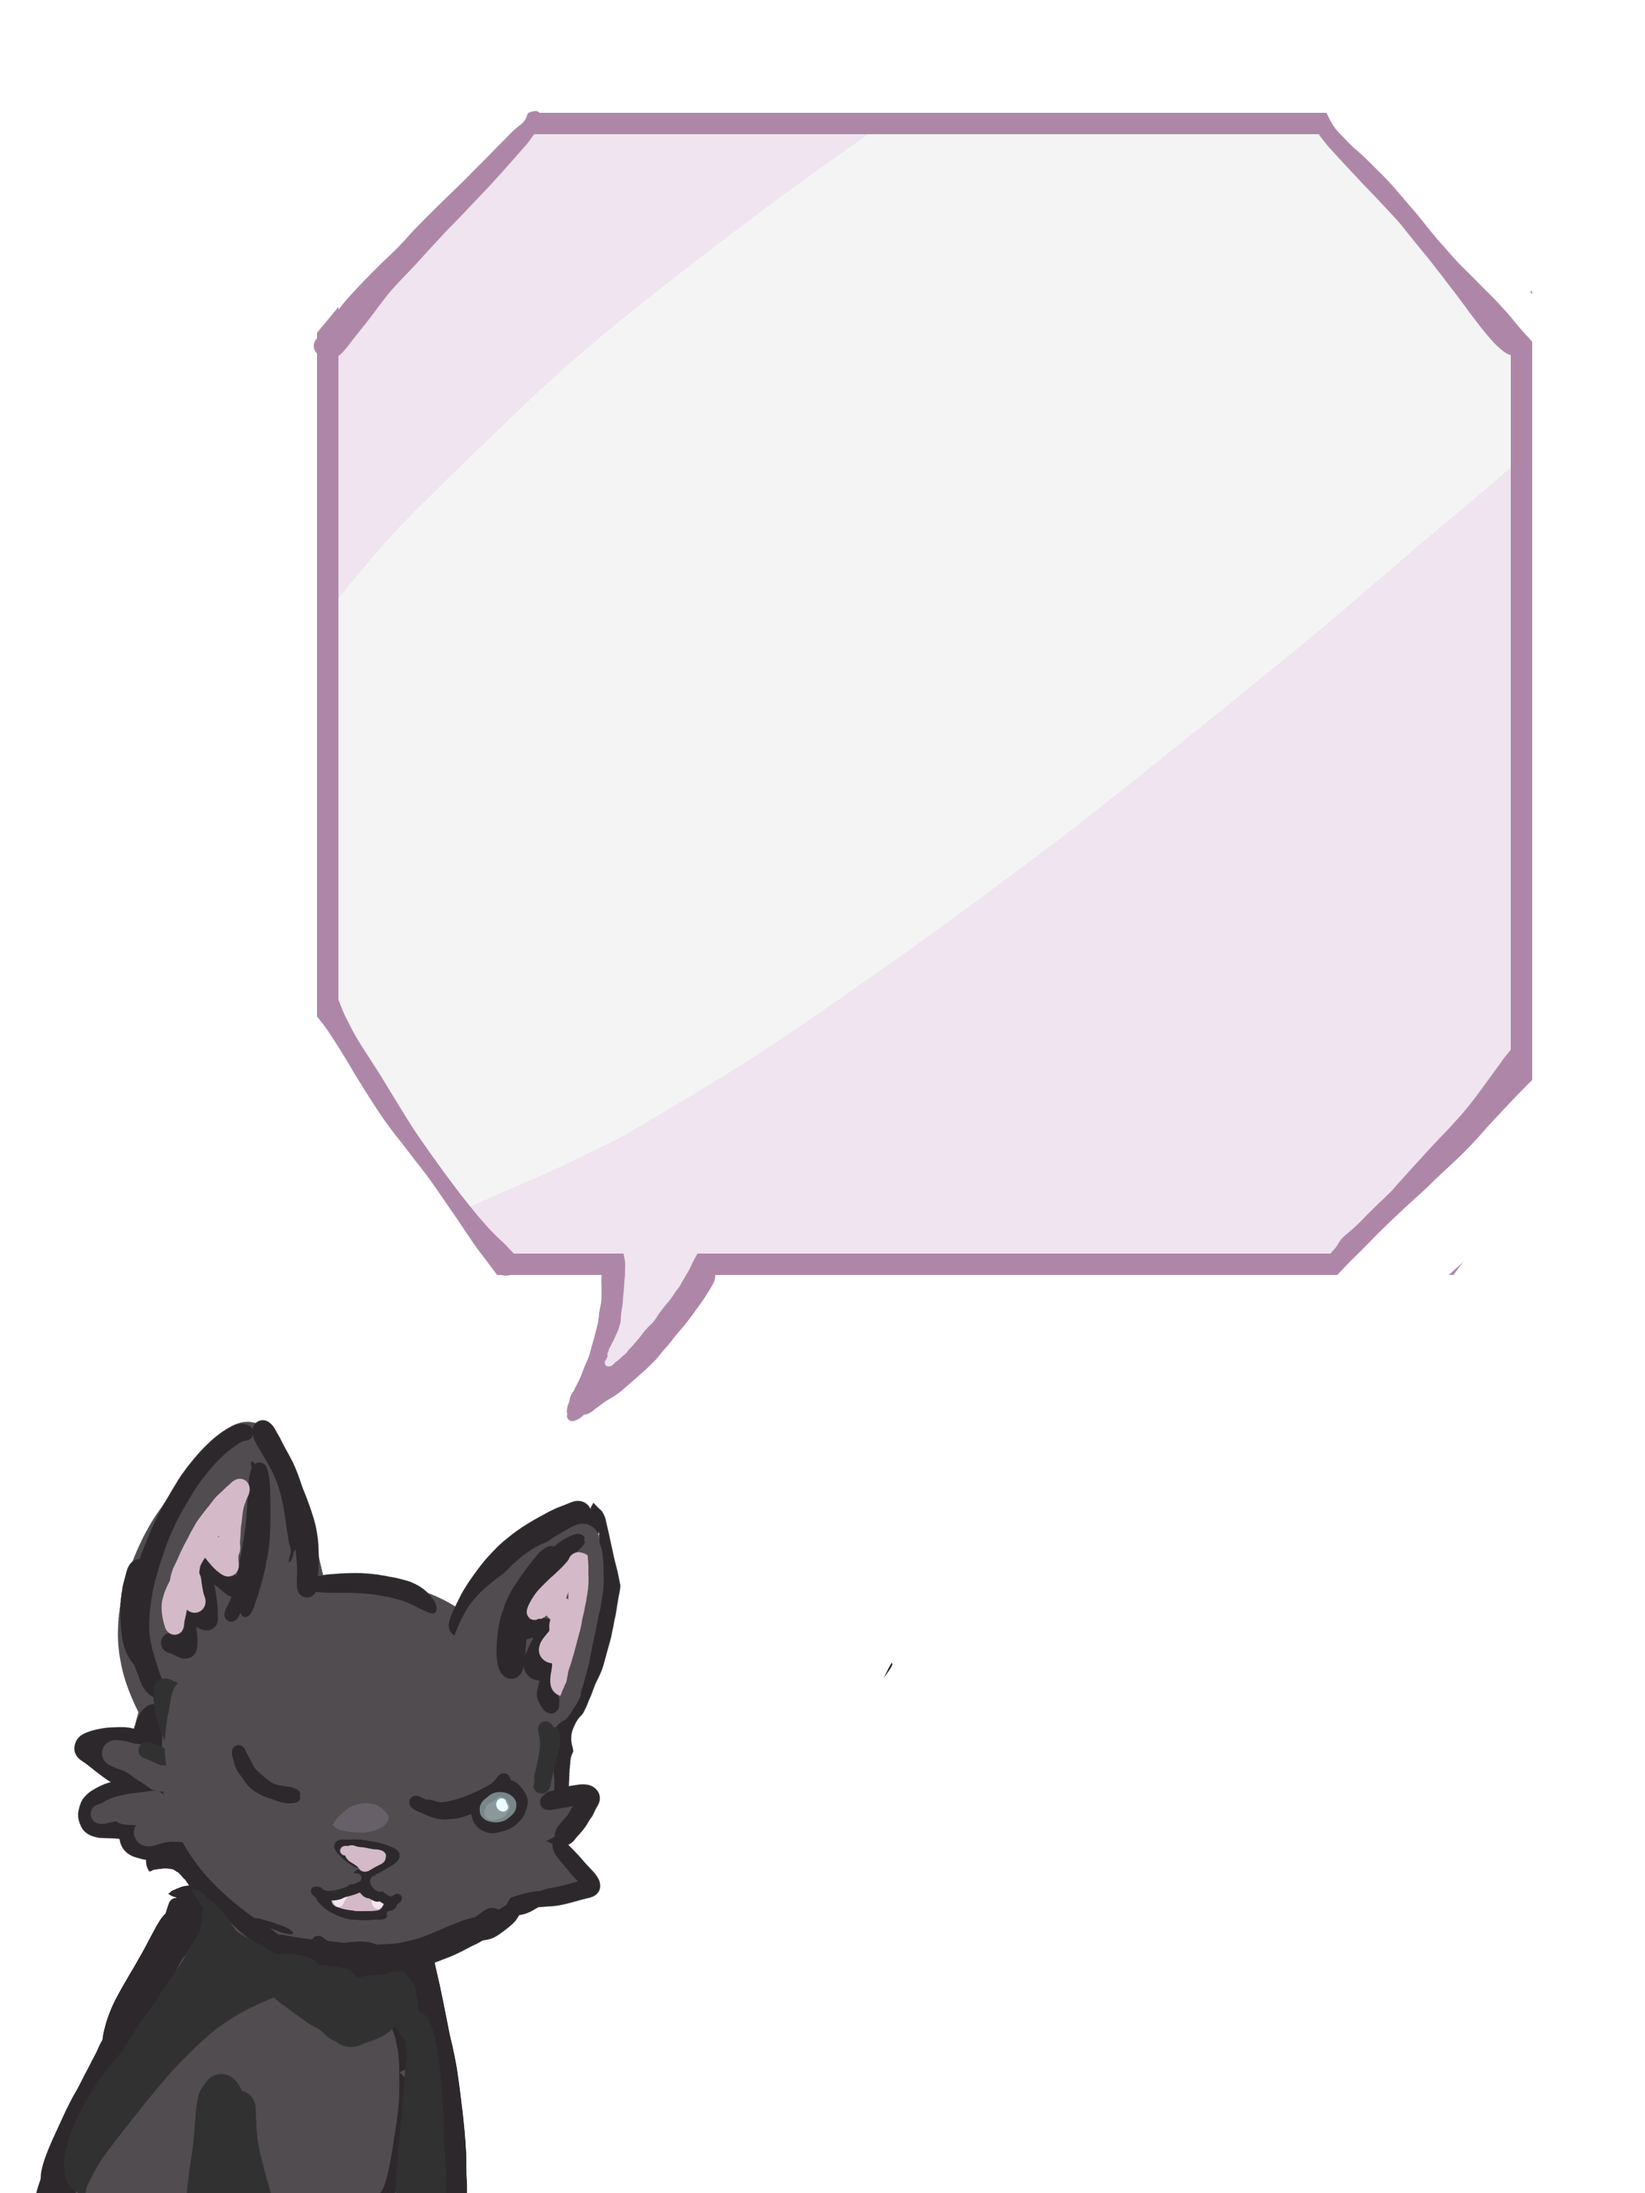
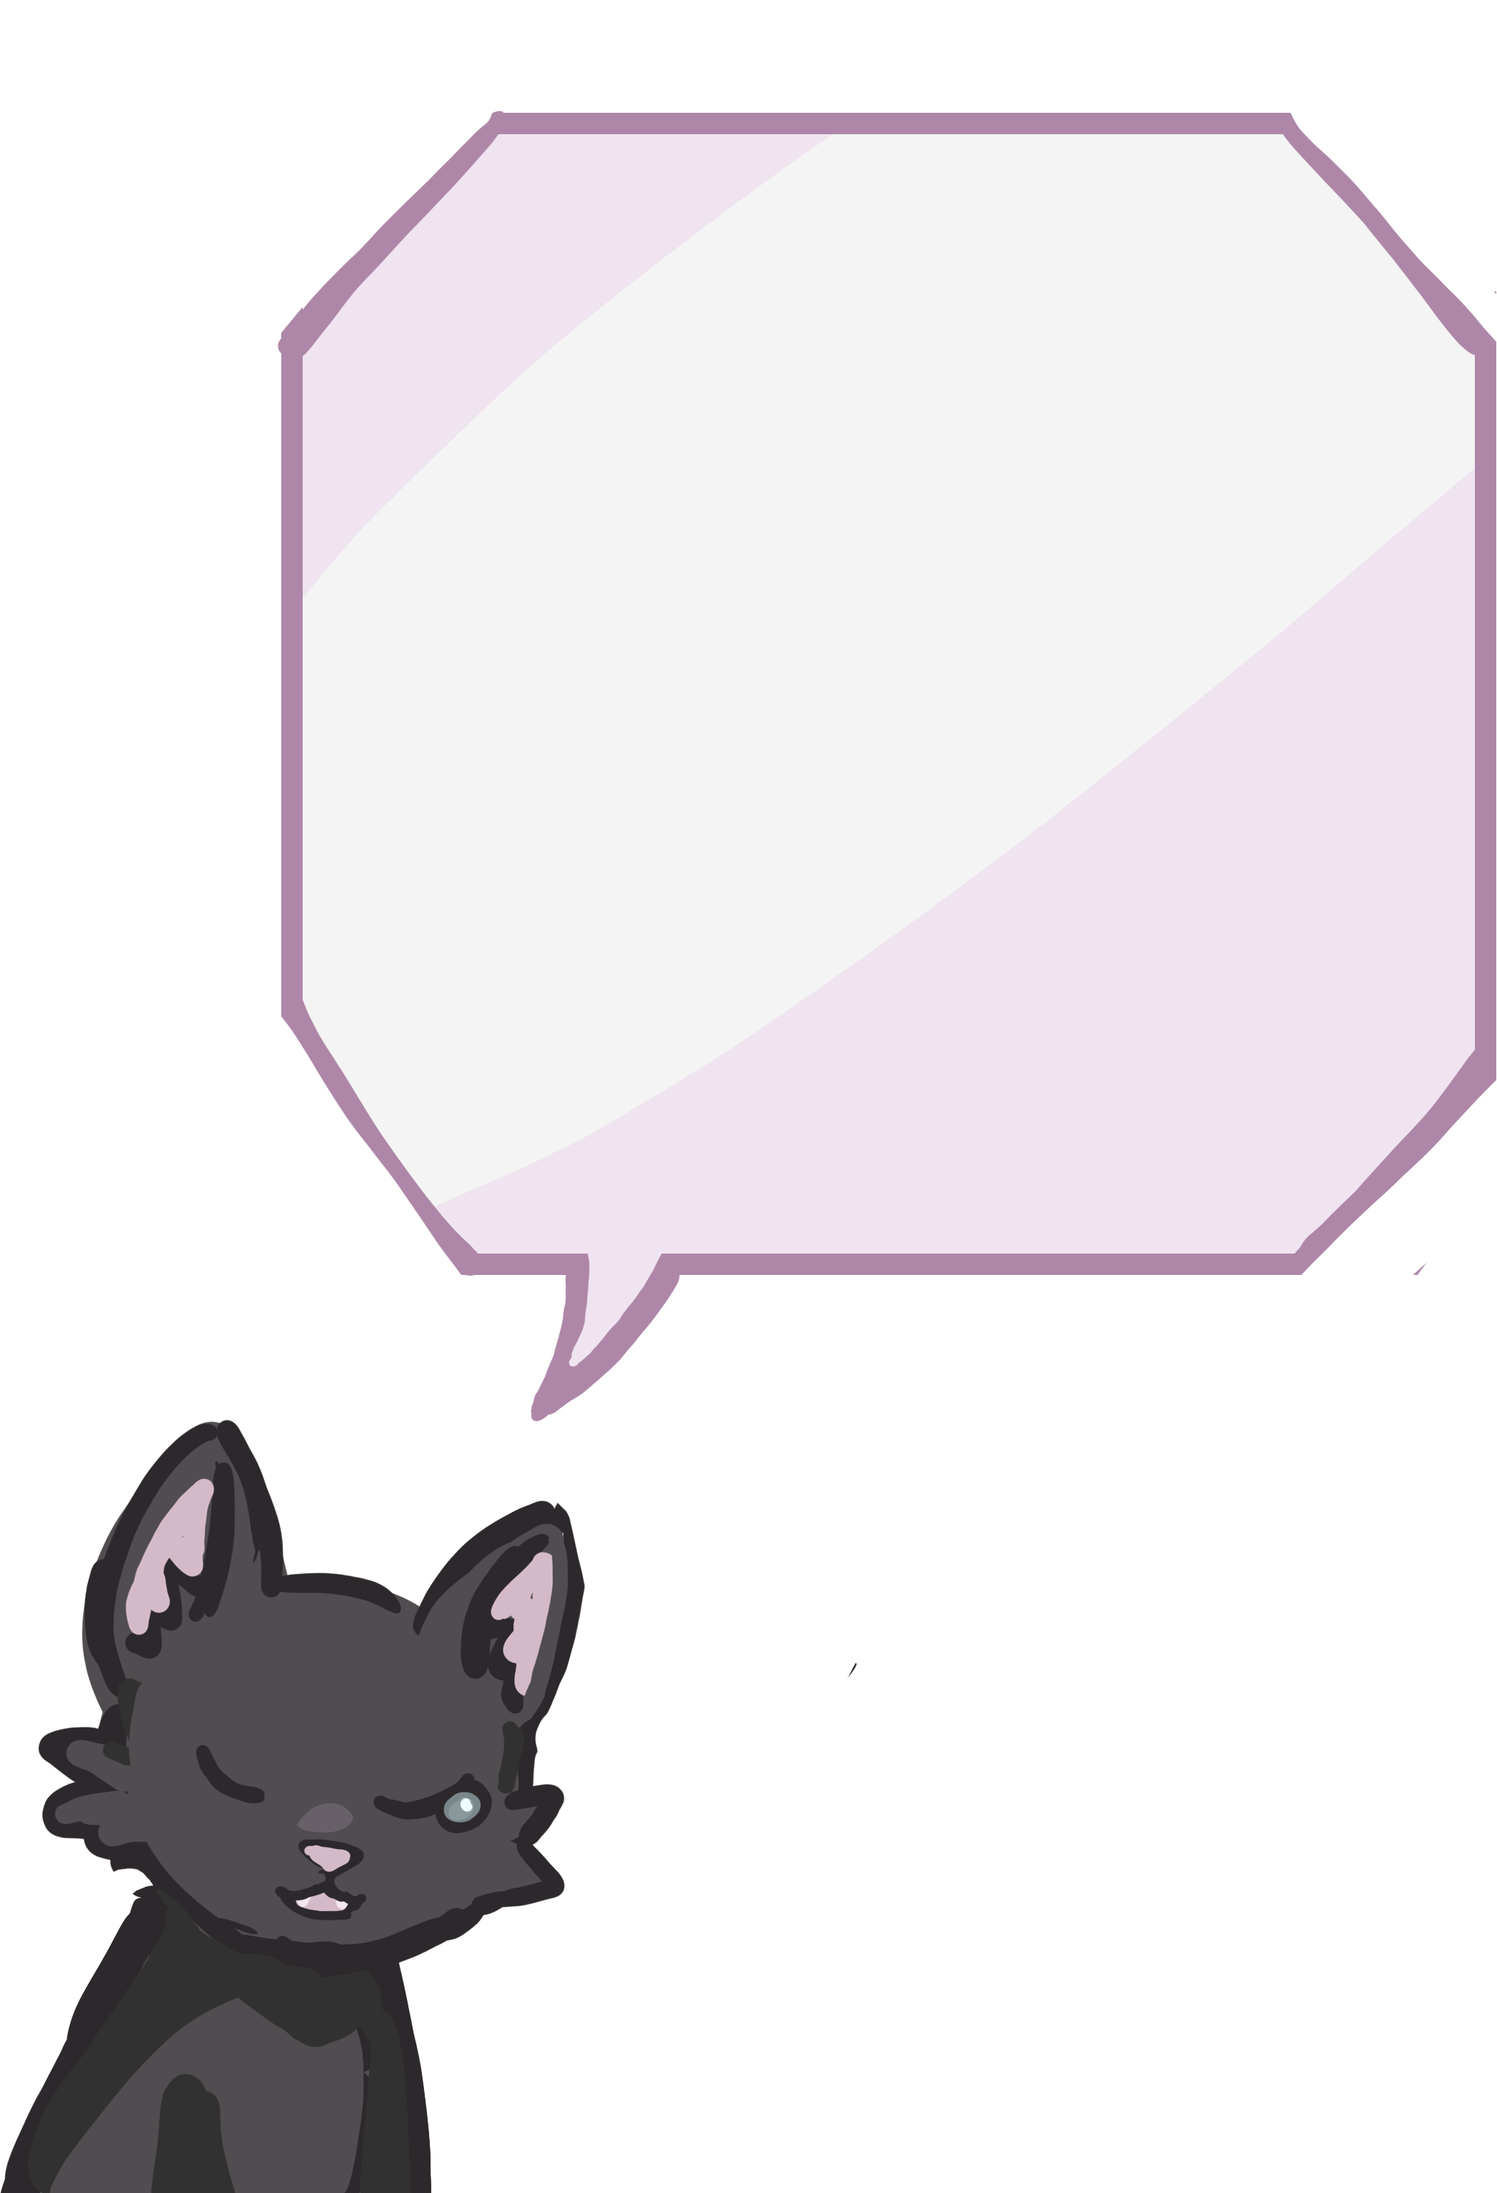
bug fix - info cat popups now scale responsively

diff --git a/assets/script/script.js b/assets/script/script.js
@@ -8,7 +8,61 @@
 
 $(function () {
 
+  /*
+=================================
+  Classes
+=================================
+*/
 
+class InfoScreen {
+  constructor() {
+    this.infoScreen = $("#info-screen")
+    this.infoCat = $("#info-cat")
+    this.allText = $(".speach-bubble p")
+    this.welcomeText = $("#info-welcome-text")
+    this.goldText = $("#info-gold-text")
+    this.levelText = $("#info-level-text")
+    this.combatText = $("#info-combat-text")
+  }
+
+  hide() {
+    this.infoScreen.hide();
+  }
+
+  showWelcome() {
+    this.allText.hide()
+    this.infoCat.removeClass()
+    this.infoCat.addClass("info-cat-sad-image")
+    this.welcomeText.show()
+    this.infoScreen.show()
+  }
+
+  showGold() {
+    this.allText.hide()
+    this.infoCat.removeClass()
+    this.infoCat.addClass("info-cat-sad-image")
+    this.goldText.show()
+    this.infoScreen.show()
+  }
+
+  showLevel() {
+    this.allText.hide()
+    this.infoCat.removeClass()
+    this.infoCat.addClass("info-cat-sad-image")
+    this.levelText.show()
+    this.infoScreen.show()
+  }
+
+  showCombat() {
+    this.allText.hide()
+    this.infoCat.removeClass()
+    this.infoCat.addClass("info-cat-combat-image")
+    this.combatText.show()
+    this.infoScreen.show()
+  }
+}
+
+const infoScreen = new InfoScreen();
 
   /*
   =================================
@@ -136,11 +190,7 @@ $(function () {
     gameScreen.menu.hide();
     gameScreen.popupBackground.hide();
 
-    popups.infoBackground.hide();
-    popups.infoWelcome.hide();
-    popups.infoGold.hide();
-    popups.infoLevel.hide();
-    popups.infoCombat.hide();
+    infoScreen.hide();
 
     popups.goldDrop.hide();
     popups.potionDrop.hide();
@@ -165,14 +215,11 @@ $(function () {
     hideAllScreens();
     gameScreen.home.show();
     gameScreen.stats.show();
-    popups.infoBackground.show();
-    popups.infoWelcome.show();
+    infoScreen.showWelcome();
   })
 
   gameButton.infoOk.click(function () {
-    $(this).parents(".info-box").hide();
-    popups.infoBackground.hide();
-    popups.infoWelcome.hide();
+    infoScreen.hide();
   })
 
   gameButton.menu.click(function () {
@@ -251,13 +298,13 @@ $(function () {
     levelUpAttack(player) {
       //Check player max level
       if (player.attack >= 90) {
-        this.showLeveledUpMaxPopUp();
+        infoScreen.showLevel();
         return;
       }
 
       //check player gold
       if (player.gold < this.attackLevelUpCost) {
-        this.showNotEnoughGoldPopUp();
+        infoScreen.showGold();
         return;
       }
 
@@ -278,13 +325,13 @@ $(function () {
     levelUpDefence(player) {
       //Check player max level
       if (player.defence >= 90) {
-        this.showLeveledUpMaxPopUp();
+        infoScreen.showLevel();
         return;
       }
 
       //check player gold
       if (player.gold < this.defenceLevelUpCost) {
-        this.showNotEnoughGoldPopUp();
+        infoScreen.showGold();
         return;
       }
 
@@ -305,16 +352,6 @@ $(function () {
     updateShopText() {
       statField.shopAttackCost.text(this.attackLevelUpCost);
       statField.shopDefenceCost.text(this.defenceLevelUpCost);
-    }
-
-    showLeveledUpMaxPopUp() {
-      popups.infoBackground.show();
-      popups.infoLevel.show();
-    }
-
-    showNotEnoughGoldPopUp() {
-      popups.infoBackground.show();
-      popups.infoGold.show();
     }
 
 
@@ -488,8 +525,7 @@ $(function () {
         return Promise.resolve();
       }
       this.firstCombat = false;
-      popups.infoBackground.show();
-      popups.infoCombat.show();
+      infoScreen.showCombat();
 
       var promise = new Promise(function (resolve, reject) {
         gameButton.combatInfoOk.off("click")

diff --git a/assets/css/style.css b/assets/css/style.css
@@ -1068,75 +1068,67 @@
 
 #info-screen {
     position: fixed;
-    width: 100%;
-    height: 100%;
     background-color: rgba(0, 0, 0, 0.8);
+
 }
 
-.info-box {
+.speach-bubble-container {
+    justify-content: center;
+    align-items: flex-end;
+}
+
+.info-cat-container {
+    flex-grow: 0;
+    justify-content: left;
+    align-items: flex-end;
+}
+
+.speach-bubble {
+    background-image: url(../art/pop-ups/pop-ups-info-speach-bubble.png);
     background-repeat: no-repeat;
-    background-size: cover;
+    background-size: contain;
     background-position-x: center;
-    background-position-y: bottom;
-    position: absolute;
-    bottom: 0%;
-    width: 100vw;
-    height: 80%;
-
-}
-
-.info-welcome {
-    background-image: url(../art/pop-ups/pop-up-info-welcome.png);
-}
-
-.info-gold {
-    background-image: url(../art/pop-ups/pop-up-info-welcome.png);
-}
-
-.info-level {
-    background-image: url(../art/pop-ups/pop-up-info-welcome.png);
-}
-
-.info-combat {
-    background-image: url(../art/pop-ups/pop-up-info-combat.png);
-}
-
-.info-text {
-    position: absolute;
-    top: 13%;
-    width: 55%;
-    left: 30%;
+    background-position-y: top;
+    height: 80vw;
+    width: 80vw;
+    padding: 12%;
     font-size: 6vw;
+    position: relative;
 }
 
-.info-gold .info-text {
+#info-gold-text {
     font-size: 5vw;
 }
+#info-combat-text {
+    font-size: 4.5vw;
+}
 
-.info-combat .info-text {
-    top: 11%;
-    font-size: 5vw;
+#info-cat {
+    background-repeat: no-repeat;
+    background-size: contain;
+    background-position-x: left;
+    background-position-y: bottom;
+    height: 40vw;
+    width: 40vw;
+}
+.info-cat-sad-image {
+    background-image: url(../art/pop-ups/pop-ups-cat-sad.png);
+}
+.info-cat-combat-image {
+    background-image: url(../art/pop-ups/pop-ups-cat-combat.png);
 }
 
 .info-ok  {
     background-color: plum;
     outline: rebeccapurple 2px solid;
-    position: absolute;
+    top: auto;
     width: 20%;
-    height: 6%;
-    top: 44%;
-    left: 63%;
+    height: 10%;
+    bottom: 17%;
+    left: 60%;
     font-size: 5vw;
 }
 
-.info-gold .info-ok {
-    top: 46%;
-}
-.info-combat .info-ok {
-    top: 49%;
-    left: 61%;
-    width: 18%;
-}
 @media (min-width: 768px) {
     #info-screen {
         position: absolute;
@@ -1144,21 +1136,23 @@
         max-height: 1024px;
         left: calc(50% - 384px);
     }
-    .info-box {
-        height: 80%;
-        width: 80%;
+    .speach-bubble {
+        height: calc(0.8 * 768px);
+        width: calc(0.8 * 768px);
+        font-size: 45px;
     }
-    .info-text {
-        top: 15%;
-        font-size: 33px;
+    #info-gold-text {
+        font-size: 38px;
     }
-    .info-gold .info-text {
-        font-size: 30px;
+    #info-combat-text {
+        font-size: 34px;
     }
-    .info-combat .info-text {
-        font-size: 30px;
+    #info-cat {
+        height: calc(0.4 * 768px);
+        width: calc(0.4 * 768px);
     }
-    .info-ok {
-        font-size: 30px;
+    .info-ok  {
+        font-size: 38px;
     }
+
 }

diff --git a/index.html b/index.html
@@ -338,43 +338,34 @@
     </div>
 
     <!--Info Popups-->
-    <div id="info-screen">
-        <div class="info-welcome info-box">
-            <div class="info-text">
-                <p>Hello adventurer! <br>
-                    The scary dragon has stolen the rainbow! Can
-                    you help us please?</p>
-            </div>
-            <button class="info-ok button">ok</button>
-        </div>
-        <div class="info-gold info-box">
-            <div class="info-text">
-                <p>Hello adventurer!
+    <div id="info-screen" class="game-screen">
+        <div class="screen-flex-row speach-bubble-container">
+            <div class="speach-bubble">
+                <!--Welcome text-->
+                    <p id="info-welcome-text">Hello adventurer! <br>
+                        The scary dragon has stolen the rainbow! Can
+                        you help us please?</p>
+                <!--Gold text-->
+                <p id="info-gold-text">Hello adventurer!
                     <br>It looks like you don't have quite enough
                     gold for that... <br><br>You
                     can get gold by fighting monsters!</p>
-            </div>
-            <button class="info-ok button">ok</button>
-        </div>
-        <div class="info-level info-box">
-            <div class="info-text">
-                <p>Hello adventurer!
+                <!--Level text-->
+                <p id="info-level-text">Hello adventurer!
                     <br>It looks like you can't upgrade that
                     stat any more!</p>
-            </div>
-            <button class="info-ok button">ok</button>
-        </div>
-        <div class="info-combat info-box">
-            <div class="info-text">
-                <p>Hello adventurer! <br>
+                <!--Combat text-->
+                <p id="info-combat-text">Hello adventurer! <br>
                     Combat is dangerous, but it's easier
-                    if you spot the enemies' attack pattern! <br><br>
+                    if you spot the enemy attack pattern! <br><br>
                     Also, some enemies drop health potions!
                 </p>
+                <button class="info-ok button">ok</button>
             </div>
-            <button class="info-ok button">ok</button>
         </div>
-
+        <div class="screen-flex-row info-cat-container">
+            <div id="info-cat" class=""></div>
+        </div>
     </div>
 
 </body>
